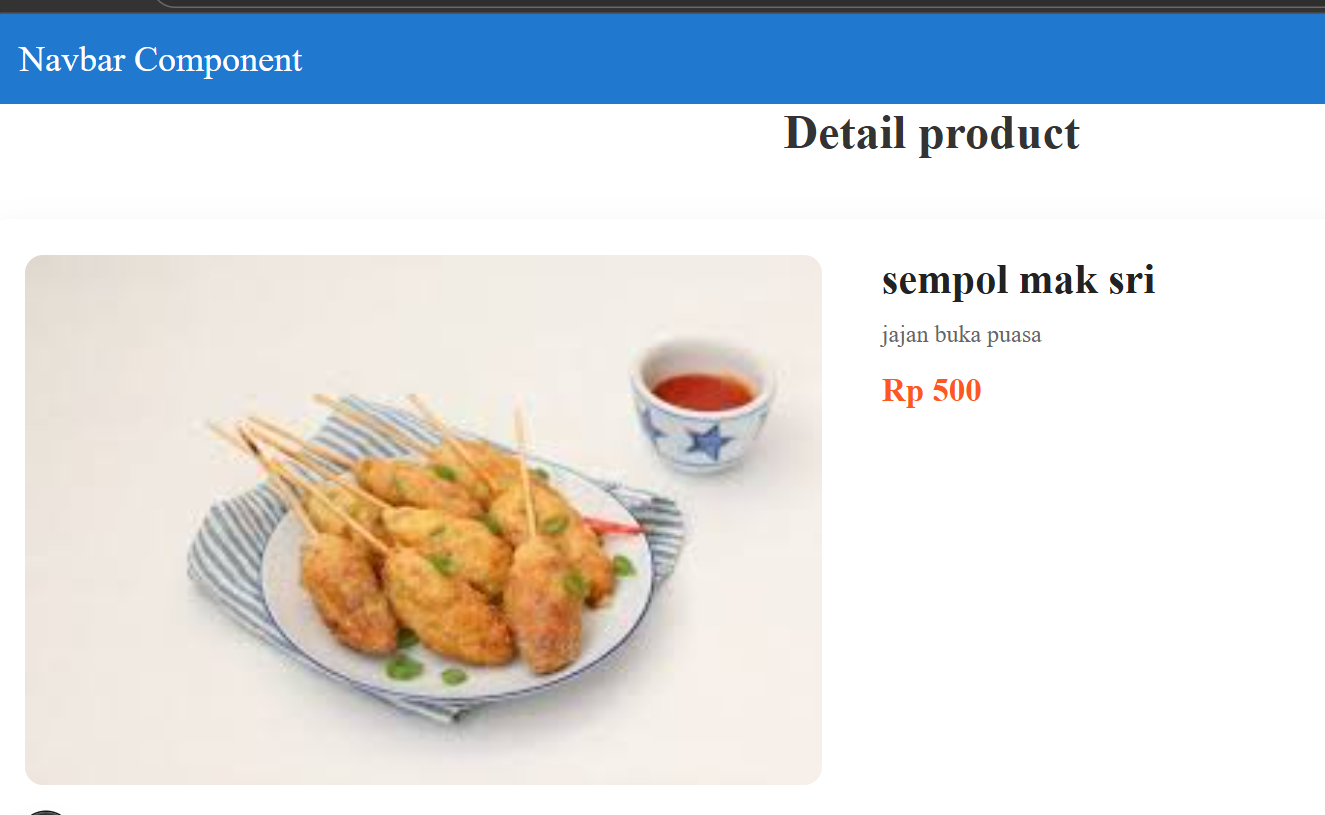
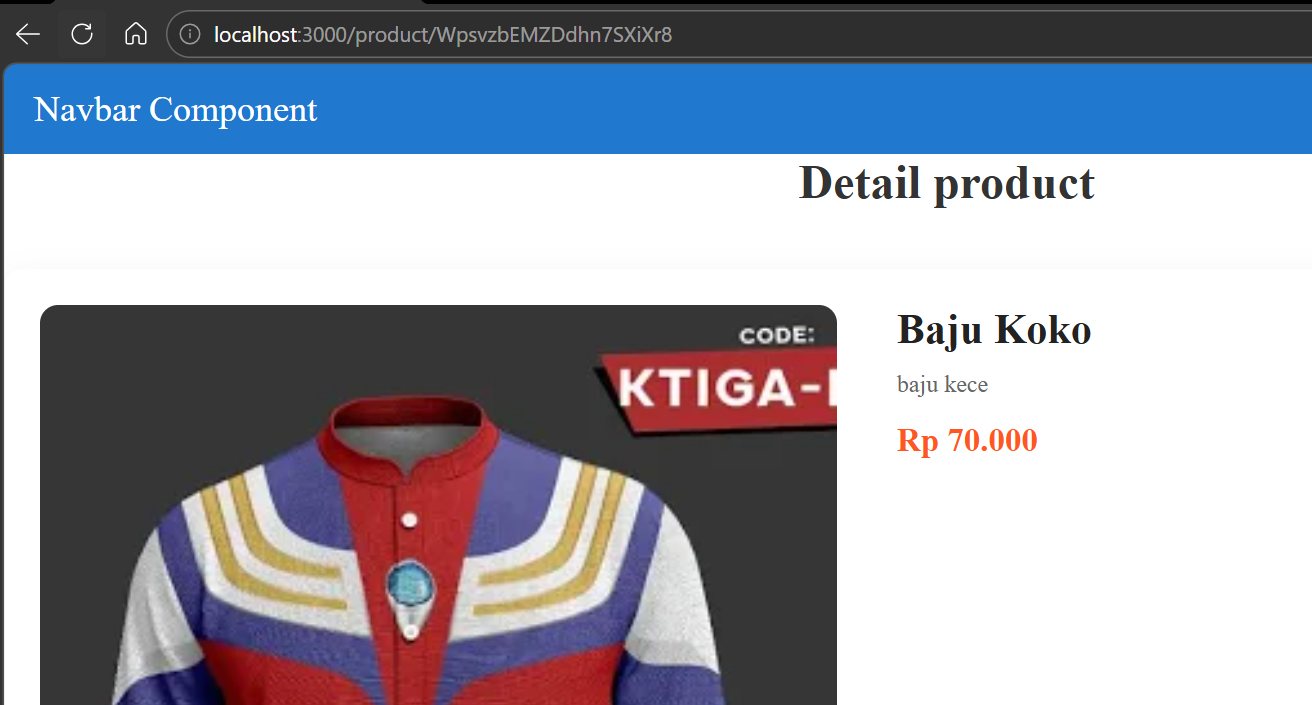
3. Implementasi SSR

diff --git a/Jobsheet11/my-app/src/pages/product/[product].tsx b/Jobsheet11/my-app/src/pages/product/[product].tsx
@@ -1,17 +1,37 @@
 import fetcher from "@/utils/swr/fetcher";
 import { useRouter } from "next/router";
 import useSWR from "swr";
-
+import { ProductType } from "@/types/Product.type";
 import DetailProduct from "@/views/DetailProduct";
+// Client side
+// const HalamanProduct = () => {
+//   const { query } = useRouter();
+//   const { data, error, isLoading } = useSWR(`/api/product/${query.product}`, fetcher);
+//   return (
+//     <div>
+//       <DetailProduct products={isLoading ? [] : data.data} />
+//     </div>
+//   );
+// };
 
-const HalamanProduct = () => {
-  const { query } = useRouter();
-  const { data, error, isLoading } = useSWR(`/api/product/${query.product}`, fetcher);
+// server side
+const HalamanProduct = ({ product }: { product: ProductType }) => {
   return (
     <div>
-      <DetailProduct products={isLoading ? [] : data.data} />
+      <DetailProduct products={product} />
     </div>
   );
 };
 
 export default HalamanProduct;
+
+export async function getServerSideProps({ params }: { params: { product: string } }) {
+  const res = await fetch(`http://localhost:3000/api/product/${params?.product}`);
+  const respone = await res.json();
+
+  return {
+    props: {
+      product: respone.data,
+    },
+  };
+}

diff --git a/Jobsheet11/README.md b/Jobsheet11/README.md
@@ -11,12 +11,16 @@
 - **Kelas**: TI-3D
 
 ## Langkah 1 Membuat Dynamic Route
+
 ![alt text](images/image1.png)
 
 ## Langkah 2 Implementasi CSR (Client Rendering)
+
 ![alt text](images/image2-1.png)
 ![alt text](images/image2-2.png)
 ![alt text](images/image2-3.png)
 
-## Langkah 3
+## Langkah 3 Implementasi SSR
 
+![alt text](images/image3-1.png)
+![alt text](images/image3-2.png)
